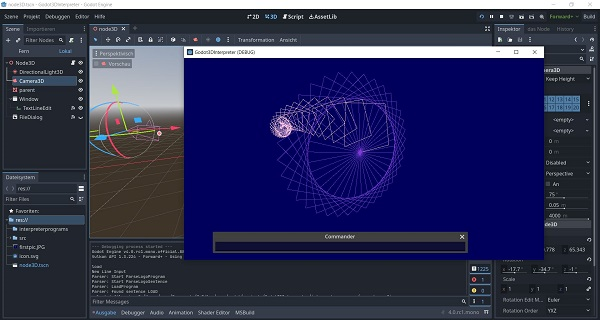
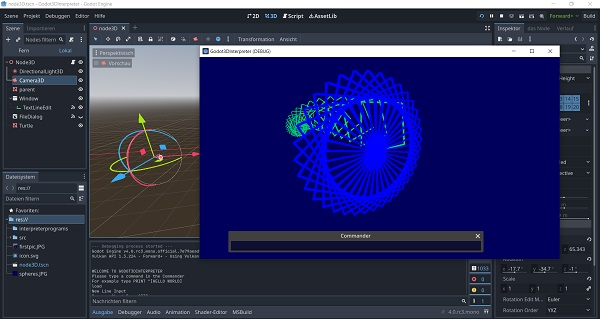
added PENSIZE

diff --git a/Godot3DInterpreter/src/Godot3DInterpreter.cs b/Godot3DInterpreter/src/Godot3DInterpreter.cs
@@ -112,7 +112,7 @@ class Globals
     public static Godot.Vector3 TurtlePos, TurtlePosOld;
     public static int mix, miy, miz;
     public static bool penup;
-    public static int pensize;
+    public static float thickness;
     public static Godot.Color pencolor;
     public static int pendensity = 255;
     public static bool turtlevisible = true;
@@ -133,7 +133,7 @@ class Globals
         "CLEAN",
         "PENUP",
         "PENDOWN",
-        "SETPENCOLOR",
+        "PENCOLOR",
         "MAKE",
         "LOAD",
         "PRINT",
@@ -148,6 +148,7 @@ class Globals
         "SPHERE",
         "BOX",
         "STOP",
+        "PENSIZE",
         "NUMBER",
         "STRING",
         "COMMENT",
@@ -183,7 +184,7 @@ class Globals
         "CLEAN",
         "PENUP",
         "PENDOWN",
-        "SETPENCOLOR",
+        "PENCOLOR",
         "MAKE",
         "LOAD",
         "PRINT",
@@ -197,7 +198,8 @@ class Globals
         "FOR",
         "SPHERE",
         "BOX",
-        "STOP"
+        "STOP",
+        "PENSIZE"
     };
     public enum Tokens : int
     {
@@ -213,7 +215,7 @@ class Globals
         CLEAN=9,
         PENUP=10,
         PENDOWN=11,
-        SETPENCOLOR=12,
+        PENCOLOR=12,
         MAKE=13,
         LOAD=14,
         PRINT=15,
@@ -228,26 +230,27 @@ class Globals
         SPHERE=24,
         BOX=25,
         STOP=26,
-        NUMBER = 27, //from here not reserved
-        STRING = 28,
-        COMMENT = 29,
-        LBRACKET = 30,
-        RBRACKET = 31,
-        LPARENTHESIS = 32,
-        RPARENTHESIS = 33,
-        LBRACE=34,
-        RBRACE=35,
-        PLUS=36,
-        HYPHEN=37,
-        ASTERISK=38,
-        SLASH=39,
-        EQUALS=40,
-        LESS=41,
-        GREATER=42,
-        COMMA=43,
-        COLON=44,
-        ITEM=45,
-        EOF =46
+        PENSIZE=27,
+        NUMBER = 28, //from here not reserved
+        STRING = 29,
+        COMMENT = 30,
+        LBRACKET = 31,
+        RBRACKET = 32,
+        LPARENTHESIS = 33,
+        RPARENTHESIS = 34,
+        LBRACE=35,
+        RBRACE=36,
+        PLUS=37,
+        HYPHEN=38,
+        ASTERISK=39,
+        SLASH=40,
+        EQUALS=41,
+        LESS=42,
+        GREATER=43,
+        COMMA=44,
+        COLON=45,
+        ITEM=46,
+        EOF =47
     }
     public enum TokensReserved : int
     {
@@ -262,7 +265,7 @@ class Globals
         CLEAN=9,
         PENUP = 10,
         PENDOWN = 11,
-        SETPENCOLOR = 12,
+        PENCOLOR = 12,
         MAKE = 13,
         LOAD = 14,
         PRINT = 15,
@@ -276,7 +279,8 @@ class Globals
         FOR = 23,
         SPHERE = 24,
         BOX = 25,
-        STOP = 26
+        STOP = 26,
+        PENSIZE = 27
     }
 
 }
@@ -614,7 +618,7 @@ public class G3IParser
         
 
         //TurtleMoved = true;
-        if (!penup) IntClass.DrawLine3D(TurtlePosOld, TurtlePos, pencolor);
+        if (!penup) IntClass.DrawLine3D(TurtlePosOld, TurtlePos, pencolor, thickness);
 
     }
 
@@ -673,9 +677,9 @@ public class G3IParser
     {
         if (TestingParser) GD.Print("Parser: " + "TurtleHome");
         penup = false;
-        pensize = 1;
+        //thickness = 1.0;
         pencolor = new Godot.Color(1.0f, 1.0f, 1.0f);
-        pendensity = 255;
+        //pendensity = 255;
         anglex = 0;
         angley = 0;
         mix = 0;
@@ -896,13 +900,13 @@ public class G3IParser
             int nto = scanner.NextToken();
             if (nto == (int)Tokens.NUMBER)
             {
-                if (TestingParser) GD.Print("Parser: " + "numberor RANDMOM with NUMBER");
+                if (TestingParser) GD.Print("Parser: " + "numberor RANDOM with NUMBER");
                 Match((int)Tokens.NUMBER);
                 return (float)rnd.Next(int.Parse(scanner.scanBuffer));
             }
             else
             {
-                if (TestingParser) GD.Print("Parser: " + "numberor RANDMOM");
+                if (TestingParser) GD.Print("Parser: " + "numberor RANDOM");
                 return (float)rnd.Next(255);
             }
         }
@@ -1040,7 +1044,7 @@ public class G3IParser
                 case (int)Tokens.CLEAN:
                 case (int)Tokens.PENUP:
                 case (int)Tokens.PENDOWN:
-                case (int)Tokens.SETPENCOLOR:
+                case (int)Tokens.PENCOLOR:
                 case (int)Tokens.MAKE:
                 case (int)Tokens.LOAD:
                 case (int)Tokens.PRINT:
@@ -1052,6 +1056,7 @@ public class G3IParser
                 case (int)Tokens.SPHERE:
                 case (int)Tokens.BOX:
                 case (int)Tokens.STOP:
+                case (int)Tokens.PENSIZE:
                 case (int)Tokens.REPEAT:
                     ParseG3ISentence();
                     break;
@@ -1164,6 +1169,14 @@ public class G3IParser
                     //if (TestingParser) GD.Print("Parser: " + "found sentence DOWN+Number");
                     break;
 
+                case (int)Tokens.PENSIZE:
+                    Match(nextToken);
+                    //if (!Match((int)Tokens.NUMBER))break;
+                    thickness = numberor();
+                    
+                    //if (TestingParser) GD.Print("Parser: " + "found sentence DOWN+Number");
+                    break;
+
                 case (int)Tokens.HOME:
                     Match(nextToken);
                     //if (!Match((int)Tokens.NUMBER))break;
@@ -1202,7 +1215,7 @@ public class G3IParser
                     return;
                     break;
 
-                case (int)Tokens.SETPENCOLOR:
+                case (int)Tokens.PENCOLOR:
                     Match(nextToken);
                     //if (!Match((int)Tokens.NUMBER))break;
                     n = numberor();
@@ -1802,9 +1815,9 @@ public partial class Godot3DInterpreter : Node3D
     public void TurtleInit()
     {
         penup = false;
-        pensize = 1;
+        thickness = 1.0f;
         pencolor = new Godot.Color(1.0f, 1.0f, 1.0f);
-        pendensity = 255;
+        //pendensity = 255;
         anglex = 0;
         angley = 0;
         mix = 0;
@@ -1819,11 +1832,13 @@ public partial class Godot3DInterpreter : Node3D
  
     }
 
-    public void DrawLine3D(Godot.Vector3 begin, Godot.Vector3 end, Godot.Color c)
+    public void DrawLine3D(Godot.Vector3 begin, Godot.Vector3 end, Godot.Color c, float thickness)
     {
+        /*
         MeshInstance3D mi = new MeshInstance3D();
         ImmediateMesh me = new ImmediateMesh();
         StandardMaterial3D mat = new StandardMaterial3D();
+        mat.Grow = true;
         mat.NoDepthTest= true;
         mat.ShadingMode=BaseMaterial3D.ShadingModeEnum.Unshaded;
         mat.VertexColorUseAsAlbedo= true;
@@ -1836,6 +1851,29 @@ public partial class Godot3DInterpreter : Node3D
         me.SurfaceAddVertex(end);
         me.SurfaceEnd();
         mi.Mesh = me;
+        ParentN.AddChild(mi);
+        */
+        MeshInstance3D mi = new MeshInstance3D();
+        mi.Mesh = new BoxMesh();
+        StandardMaterial3D mat = new StandardMaterial3D();
+        mat.NoDepthTest = true;
+        mat.ShadingMode = BaseMaterial3D.ShadingModeEnum.Unshaded;
+        //mat.VertexColorUseAsAlbedo = true;
+        //mat.Transparency = BaseMaterial3D.TransparencyEnum.Alpha;
+        mat.AlbedoColor = c;
+        //mat.Metallic = 0.85f;
+        //mat.Roughness = 0.4f;
+        mi.MaterialOverride = mat;
+        mi.RotationEditMode = Node3D.RotationEditModeEnum.Quaternion;
+        //var newscale = new Godot.Vector3(scale, scale, scale);
+        var newscale = new Godot.Vector3(0.3f * thickness, 0.3f * thickness, begin.DistanceTo(end));
+        mi.Scale = newscale;
+        end.X = end.X + 1.0f;
+        mi.LookAtFromPosition((begin + end) / 2, end, Godot.Vector3.Up);
+        //mi.Translate((begin+end)/2);
+        
+
+        //mi.Translate(begin);
         ParentN.AddChild(mi);
     }
 
